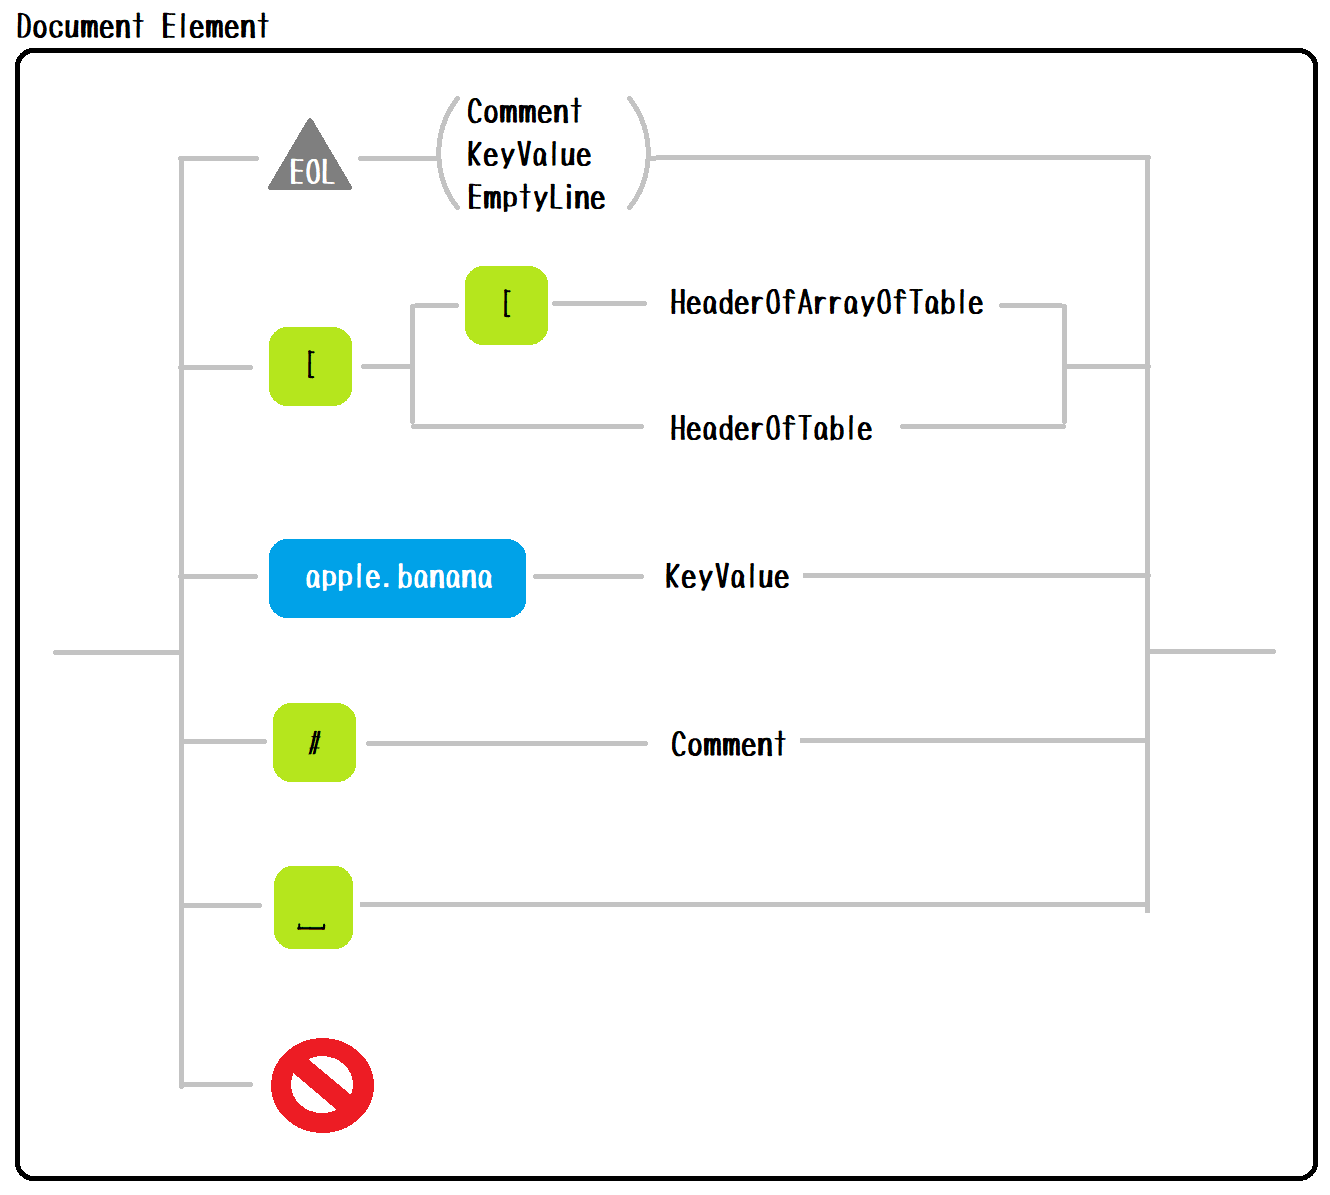
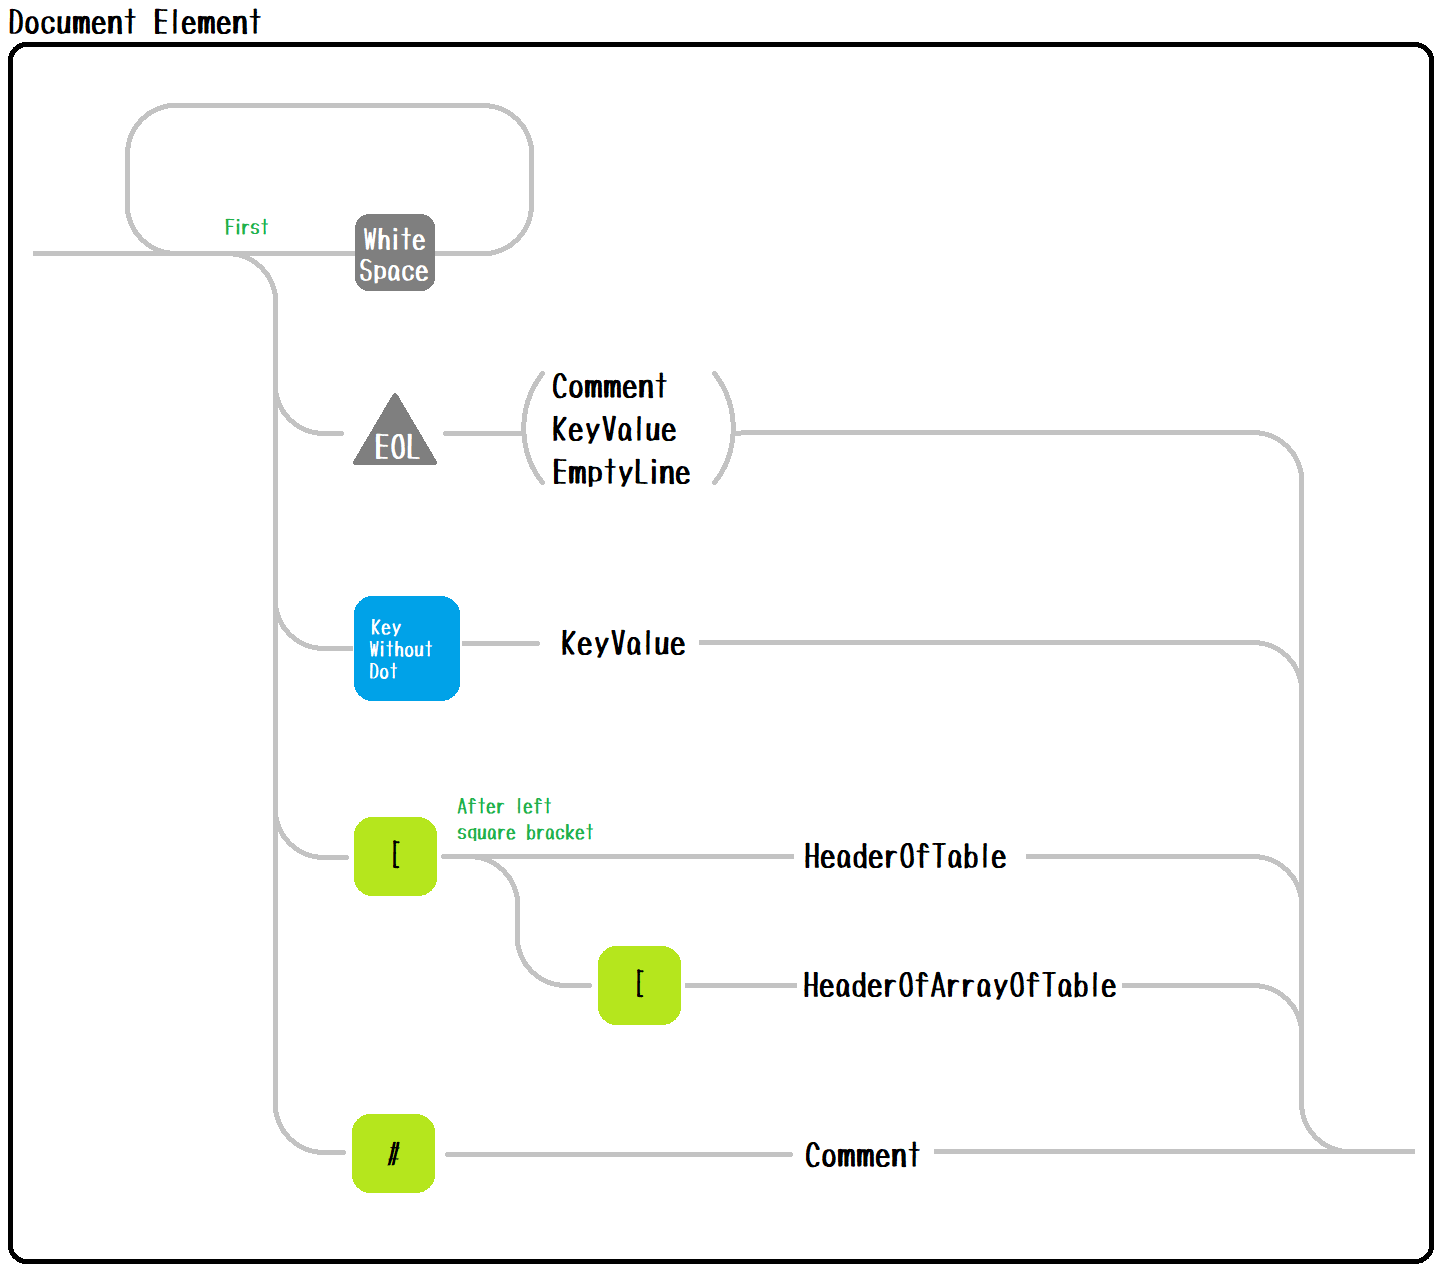
Reduce.

Changed region(s): [[0.0, 0.0, 1.0, 1.0], [0.7707, 0.2477, 0.8015, 0.2787], [0.0617, 0.1238, 0.0925, 0.1548]]

diff --git a/src/parser/phase200/layer230/document_element_p.rs b/src/parser/phase200/layer230/document_element_p.rs
@@ -32,7 +32,6 @@ pub enum State {
     KeyValueSyntax,
     /// `[name]`
     Table,
-    Unimplemented,
 }
 
 impl Default for DocumentElementP {
@@ -156,14 +155,14 @@ impl DocumentElementP {
                     self.state = State::Finished;
                     return PResult::End;
                 }
-                // `[`
-                TokenType::LeftSquareBracket => {
-                    self.state = State::AfterLeftSquareBracket;
-                }
                 // `abc`
                 TokenType::KeyWithoutDot => {
                     self.key_value_p = Some(KeyValueP::new(&token0));
                     self.state = State::KeyValueSyntax;
+                }
+                // `[`
+                TokenType::LeftSquareBracket => {
+                    self.state = State::AfterLeftSquareBracket;
                 }
                 // `#`
                 TokenType::Sharp => {
@@ -172,7 +171,7 @@ impl DocumentElementP {
                 }
                 TokenType::WhiteSpace => {} // Ignored it.
                 _ => {
-                    self.state = State::Unimplemented;
+                    return error(&mut self.log(), tokens, "document_element.rs.246.");
                 }
             },
             State::Finished => {
@@ -204,9 +203,6 @@ impl DocumentElementP {
             }
             State::Table => {
                 return self.parse_header_of_table(tokens);
-            }
-            State::Unimplemented => {
-                return error(&mut self.log(), tokens, "document_element.rs.246.");
             }
         }
 

diff --git a/examples/key_value_number.rs b/examples/key_value_number.rs
@@ -16,5 +16,4 @@ fn main() {
     // Test.
     assert_eq!(doc.get_i128_by_key("int_max"), Some(2147483647));
     assert_eq!(doc.get_i128_by_key("int_min"), Some(-2147483648));
-    assert_eq!(doc.get_f64_by_key("pi_1"), Some(3.14));
 }

diff --git a/README.md b/README.md
@@ -25,7 +25,6 @@ cargo run --example example
 cargo run --example inline_table
 cargo run --example key_value_number
 cargo run --example key_value_wip
-cargo run --example key_value
 cargo run --example main
 cargo run --example mix_array
 cargo run --example table
